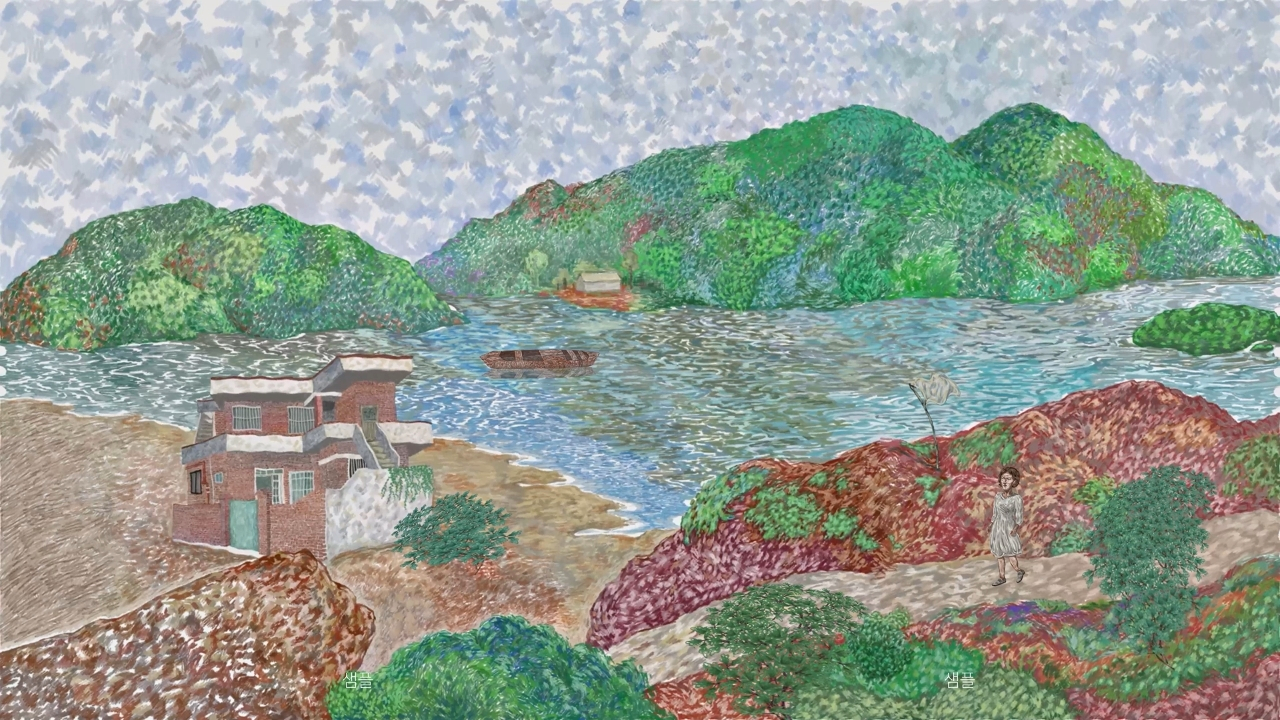
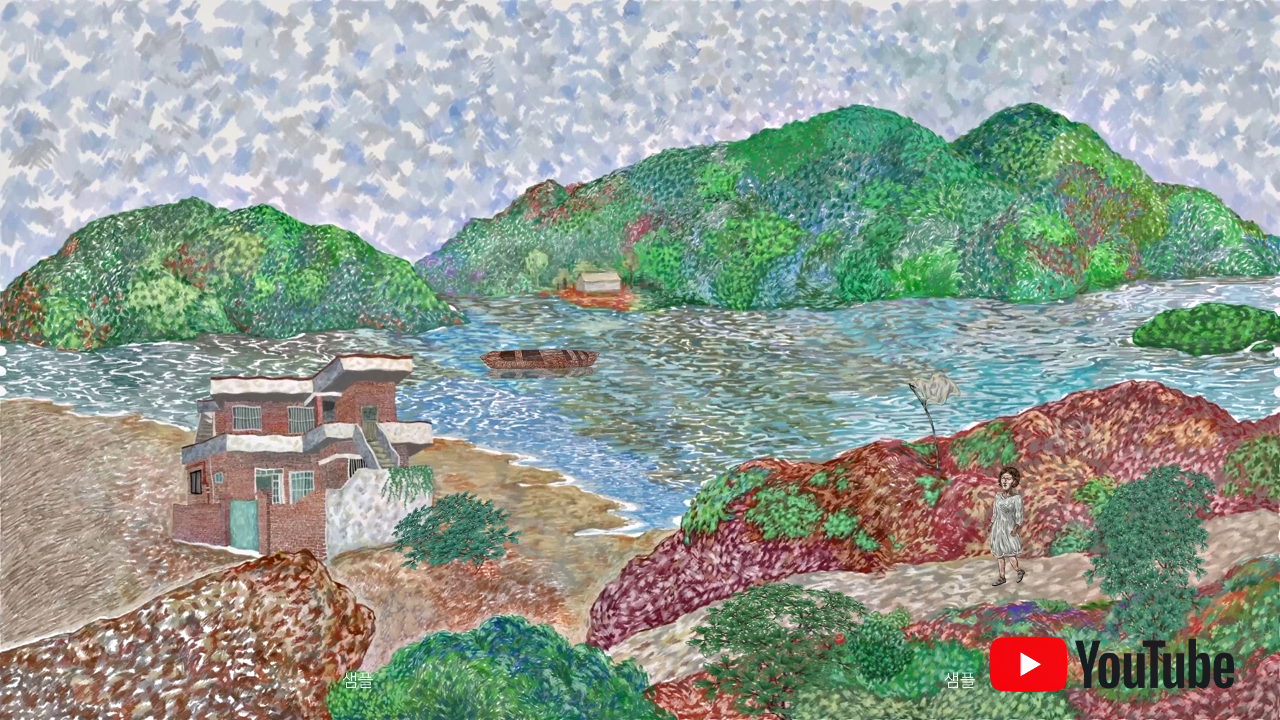
251102 흑백으로 컬러 변경

Changed region(s): [[0.75, 0.8861, 0.9688, 0.9778]]

diff --git a/text.html b/text.html
@@ -55,10 +55,10 @@
         <main>
             <div>
                <img src="./image/10.jpg" alt="디자인작업물">
-               <p><strong>김정현(金廷賢, Kimjunghyun)</strong><br><br>(b)1987, 대구<br>공주대학교 만화애니메이션학부 졸업<br><br>주로 디지털 회화와 함께 '운동-그림'에 관심을 가지고 작업을 해왔다. 지금까지의 작업은 재현으로부터 벗어나고자 한 몸부림처럼 느껴지기도 하는데, 그 몸부림의 결과는 미흡했던 듯싶다. 앞으로는 나 자신의 스타일을 구축하는 한편, 작업을 지속해나가는 데 중점을 두고 연구해 갈 계획이다.</p>
+               <p><strong><br><br><span style="background-color: black; color: white;">김정현(金廷賢, Kimjunghyun)</span></strong><br><br>(b)1987, 대구<br>공주대학교 만화애니메이션학부 졸업<br><br>주로 디지털 회화와 함께 '운동-그림'에 관심을 가지고 작업을 해왔다. 지금까지의 작업은 재현으로부터 벗어나고자 한 몸부림처럼 느껴지기도 하는데, 그 몸부림의 결과는 미흡했던 듯싶다. 앞으로는 나 자신의 스타일을 구축하는 한편, 작업을 지속해나가는 데 중점을 두고 연구해 갈 계획이다.</p>
             </div>
             <div class="artist-note">
-               <p><strong>작업노트</strong><br><br>
+               <p><strong><br><span style="background-color: black; color: white;">작업노트</span></strong><br><br>
             작품하기란, 기존에 존재하지 않았던 새로운 대상을 만들어내는 일을 뜻한다. 그렇지만, 미술사를 통해 대부분의 방식들이 실험되어 왔고, 더 이상 새로운 것은 나오기 힘든 것이 사실이다. 나는 더 이상 어떤 
             아이디어나 개념을 떠올려서는 돌파구를 찾는 것이 어렵다고 여긴다. 
             <br><br>
@@ -84,7 +84,7 @@
             작업한다.
             <br><br>
             이제부터 남은 과제는 작품의 부피를 늘리는 것, 즉 양화하는 것이며, 다른 한편으로는 모든 재현적 환영들과 투쟁하면서, 나만의 고유한 스타일을 만들어가는 일이다. 이런 과제를 등에 업고서, 작품이라는 고통스런 과정을
-            꾸준히 지속해나갈 수 있었으면 한다.   |   김정현<br><br>
+            꾸준히 지속해나갈 수 있었으면 한다.<strong>   |   김정현<br><br></strong>
             </p>
             </div>
         </main>

diff --git a/index.css b/index.css
@@ -29,7 +29,7 @@ body .container {
 body .container > header {
     width: 100%;
     height: 70px;
-    background-color: rgb(222, 225, 233);
+    background-color: rgb(15, 15, 15);
 }
 
 
@@ -38,7 +38,7 @@ body .container header .navbar_main {
     width: 100%;
     justify-content: center;
     align-items: center;
-    color: #000;
+    color: rgb(15, 15, 15);
     position: relative;
     /* 필수: z-index 적용 위해 */
     z-index: 1001;
@@ -58,7 +58,7 @@ body .container header .navbar_main .navbar_links {
 
 body .container header .navbar_main .navbar_links a {
     text-decoration: none;
-    color: rgb(16, 58, 150);
+    color: #fff;
     font-size: 25px;
     font-weight: 400;
 }
@@ -77,7 +77,7 @@ body .container header .navbar_main .navbar_links a::before {
     left: 50%;
     width: 0;
     height: 3px;
-    background-color: rgb(16, 58, 150);
+    background-color: rgb(15, 15, 15);
     transition: width 0.5s ease-in-out, left 0.5s ease-in-out;
 }
 
@@ -89,7 +89,7 @@ body .container header .navbar_main .navbar_links a:hover::before {
 body .container header .navbar_main .navbar_logo {
     margin-left: 10%;
     text-decoration: none;
-    color: #000;
+    color: rgb(15, 15, 15);
     font-size: 2.3rem;
     font-weight: 500;
 }
@@ -123,14 +123,14 @@ body .container header .navbar_main .navbar_logo {
 
 body footer {
     text-align: center;
-    background-color: rgb(222, 225, 233);
+    background-color: rgb(15, 15, 15);
     height: 70px;
     margin: 0;
 }
 
 body footer address {
     padding-top: 20px;
-    color: rgb(16, 58, 150);
+    color: #fff;
 }
 
 
@@ -246,7 +246,7 @@ body footer address {
 body .container main {
     width: 100%;
     height: auto;
-    background-color: rgb(255, 255, 255);
+    background-color: rgb(255, 255, 255);;
 }
 
 body .container main section {
@@ -327,7 +327,7 @@ body .container header .navbar_menu {
         top: 10px;
         right: 15px;
         cursor: pointer;
-        color: rgb(16, 58, 150);
+        color: rgb(255, 255, 255);
         z-index: 1800;
     }
 
@@ -340,7 +340,7 @@ body .container header .navbar_menu {
         right: 0%; /*처음엔 화면 밖에*/
         width: 70%;
         height: 100%;
-        background-color: rgb(16, 58, 150);
+        background-color: rgb(15, 15, 15);;
         padding: 0 2rem;
         flex-direction: column;
         justify-content: center;

diff --git a/index.html b/index.html
@@ -54,7 +54,7 @@
 
         <main>
             <section class="dark-background">
-                <div class="image-container"><img src="./image/0001.png" alt="메인그림이미지"></div>
+                <div class="image-container"><a href="https://www.youtube.com/watch?v=aIcUbMOvH1A"><img src="./image/0001.png" alt="메인그림이미지"></a></div>
                 <p style="color: rgb(119, 120, 122);">The Landscape, 4K, digital tool, 2025.</p>
             </section>
         </main>

diff --git a/text.css b/text.css
@@ -37,9 +37,10 @@ body .container {
 
 body .container main {
     width: 100%;
+    max-width: 1400px;
     height: auto;
     background-color: rgb(255, 255, 255);
-
+    margin: 0 auto;
 }
 
 body .container main div {
@@ -85,7 +86,7 @@ body .artist-note > p {
 
 body footer {
     text-align: center;
-    background-color: rgb(210, 216, 229);
+    background-color: rgb(15, 15, 15);
     height: 70px;
 }
 
